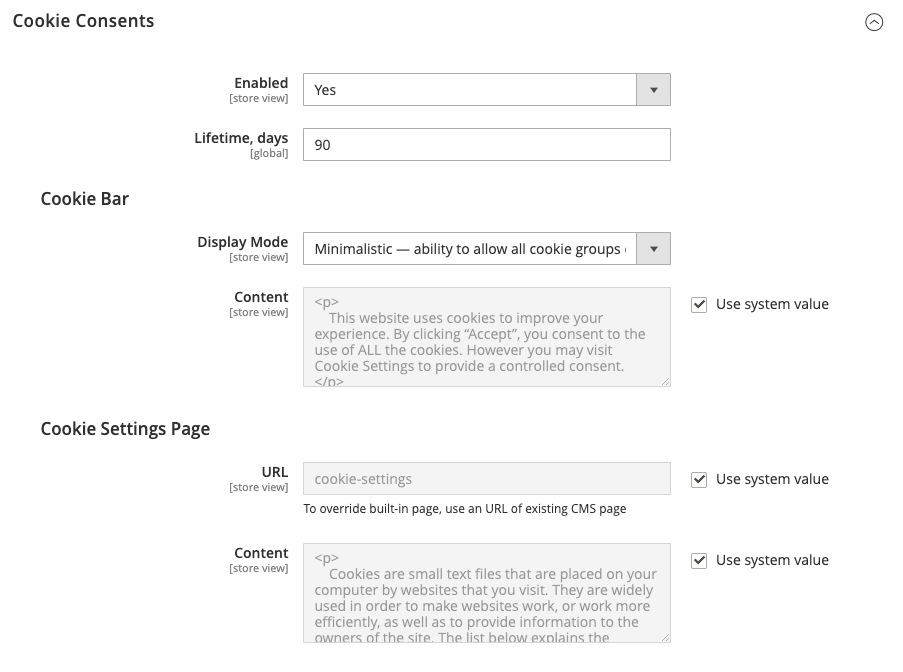
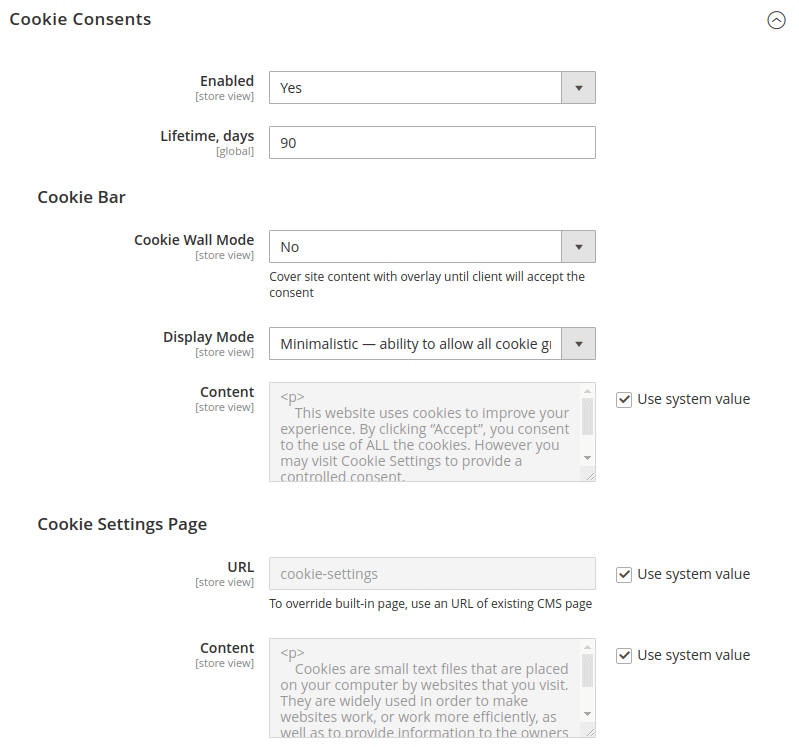
GDPR 1.4.0

diff --git a/m2/extensions/gdpr/configuration.md b/m2/extensions/gdpr/configuration.md
@@ -22,13 +22,14 @@ Enabled     | Allows to enable/disable GDPR per store view
 
 ### Cookie Consent section
 
-![Cookie consents section](/images/m2/gdpr/configuration/cookie-consents.png)
+![Cookie consents section](/images/m2/gdpr/configuration/cookie-consents.png?v=1)
 
 Option          | Description
 ----------------|------------
 Enabled         | Allows to enable/disable cookie bar and cookie settings page.
 Lifetime        | How many days should the cookie store information about visitor's cookie settings.
 **Cookie Bar**  |
+Cookie Wall Mode| Allows to enable/disable site overlay until client will accept the cookie consent.
 Display Mode    | Select display mode for cookie bar. See details below the table.
 Content         | HTML to use in cookie bar.
 **Cookie Settings Page** |

diff --git a/m2/extensions/gdpr/changelog.md b/m2/extensions/gdpr/changelog.md
@@ -8,6 +8,12 @@ category: GDPR
 
 # Changelog
 
+### Version 1.4.0
+
+> Jan 25, 2021
+
+ -  [Cookie Wall](/m2/extensions/gdpr/configuration/#cookie-consent-section) feature added.
+
 ### Version 1.3.18
 
 > Jan 22, 2021
